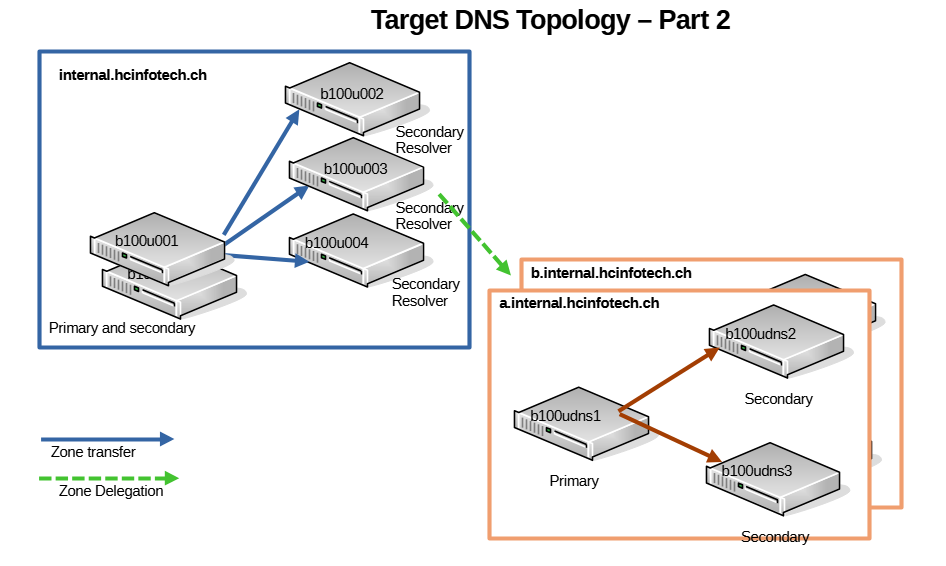
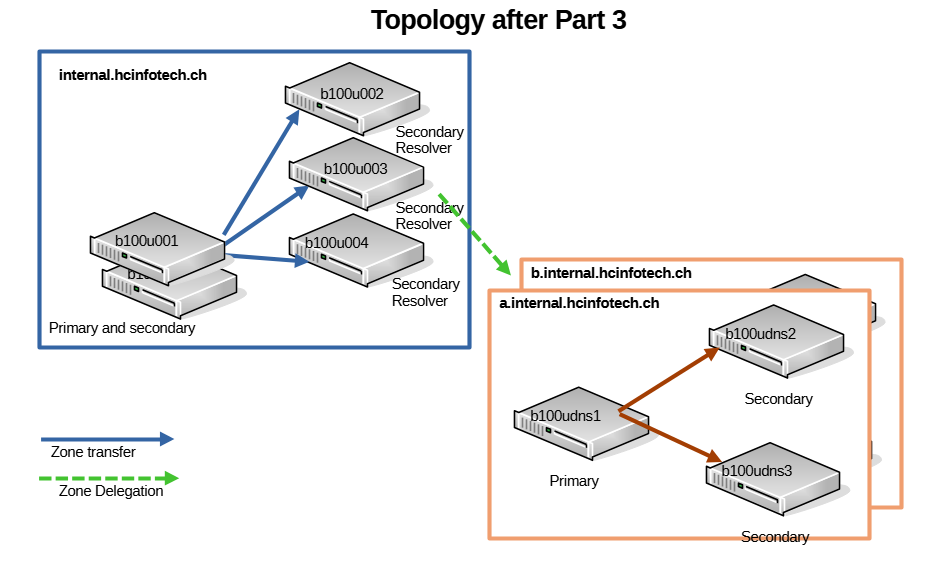
Update to topology

diff --git a/dns-setup/3. Migrate internal.hcinfotech.ch to b100u001 and b100udns4/README.md b/dns-setup/3. Migrate internal.hcinfotech.ch to b100u001 and b100udns4/README.md
@@ -17,6 +17,14 @@ This migration transitions the internal DNS infrastructure to a delegated zone s
 | b.internal.hcinfotech.ch. | Primary operational zone   | b100udns4 | b100udns5, b100udns6 |
 | 50.1.10.in-addr.arpa.     | Reverse zone               | b100udns4 | b100udns5, b100udns6 |
 
+Current topology after part 2
+
+![Part 2 Topology](../../common/images/part-1-target-internal-dns-topology.png)
+
+Target topology after part 3
+
+![Part 3 Topology](../../common/images/part-2-target-internal-dns-topology.png)
+
 **Future trust anchor:**
 
 Once DNSSEC is implemented, internal.hcinfotech.ch will become the cryptographic trust anchor for all delegated child zones.
